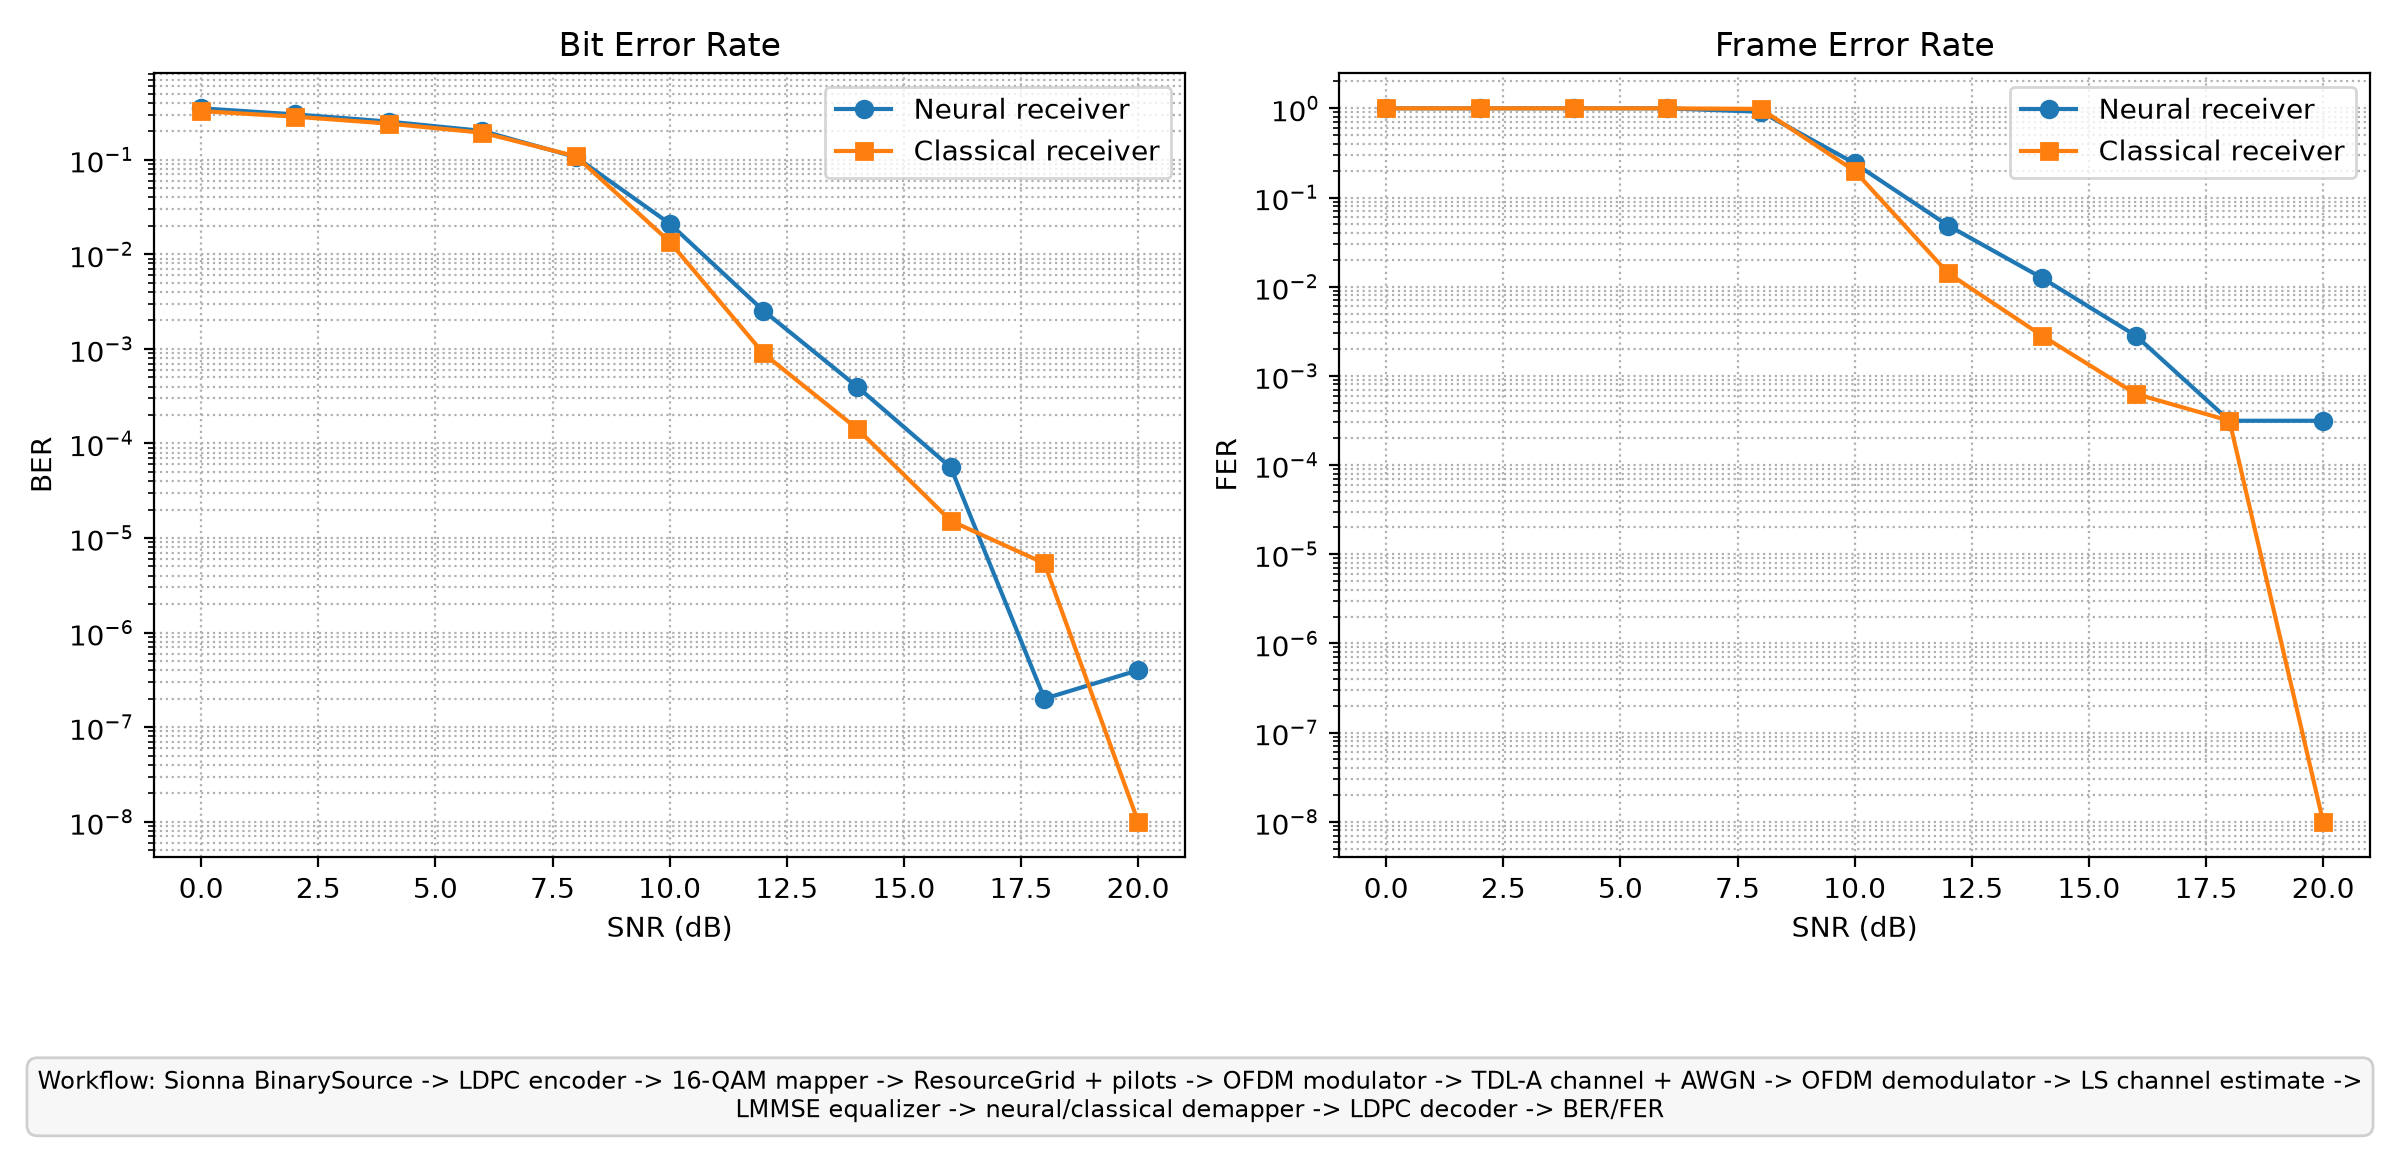
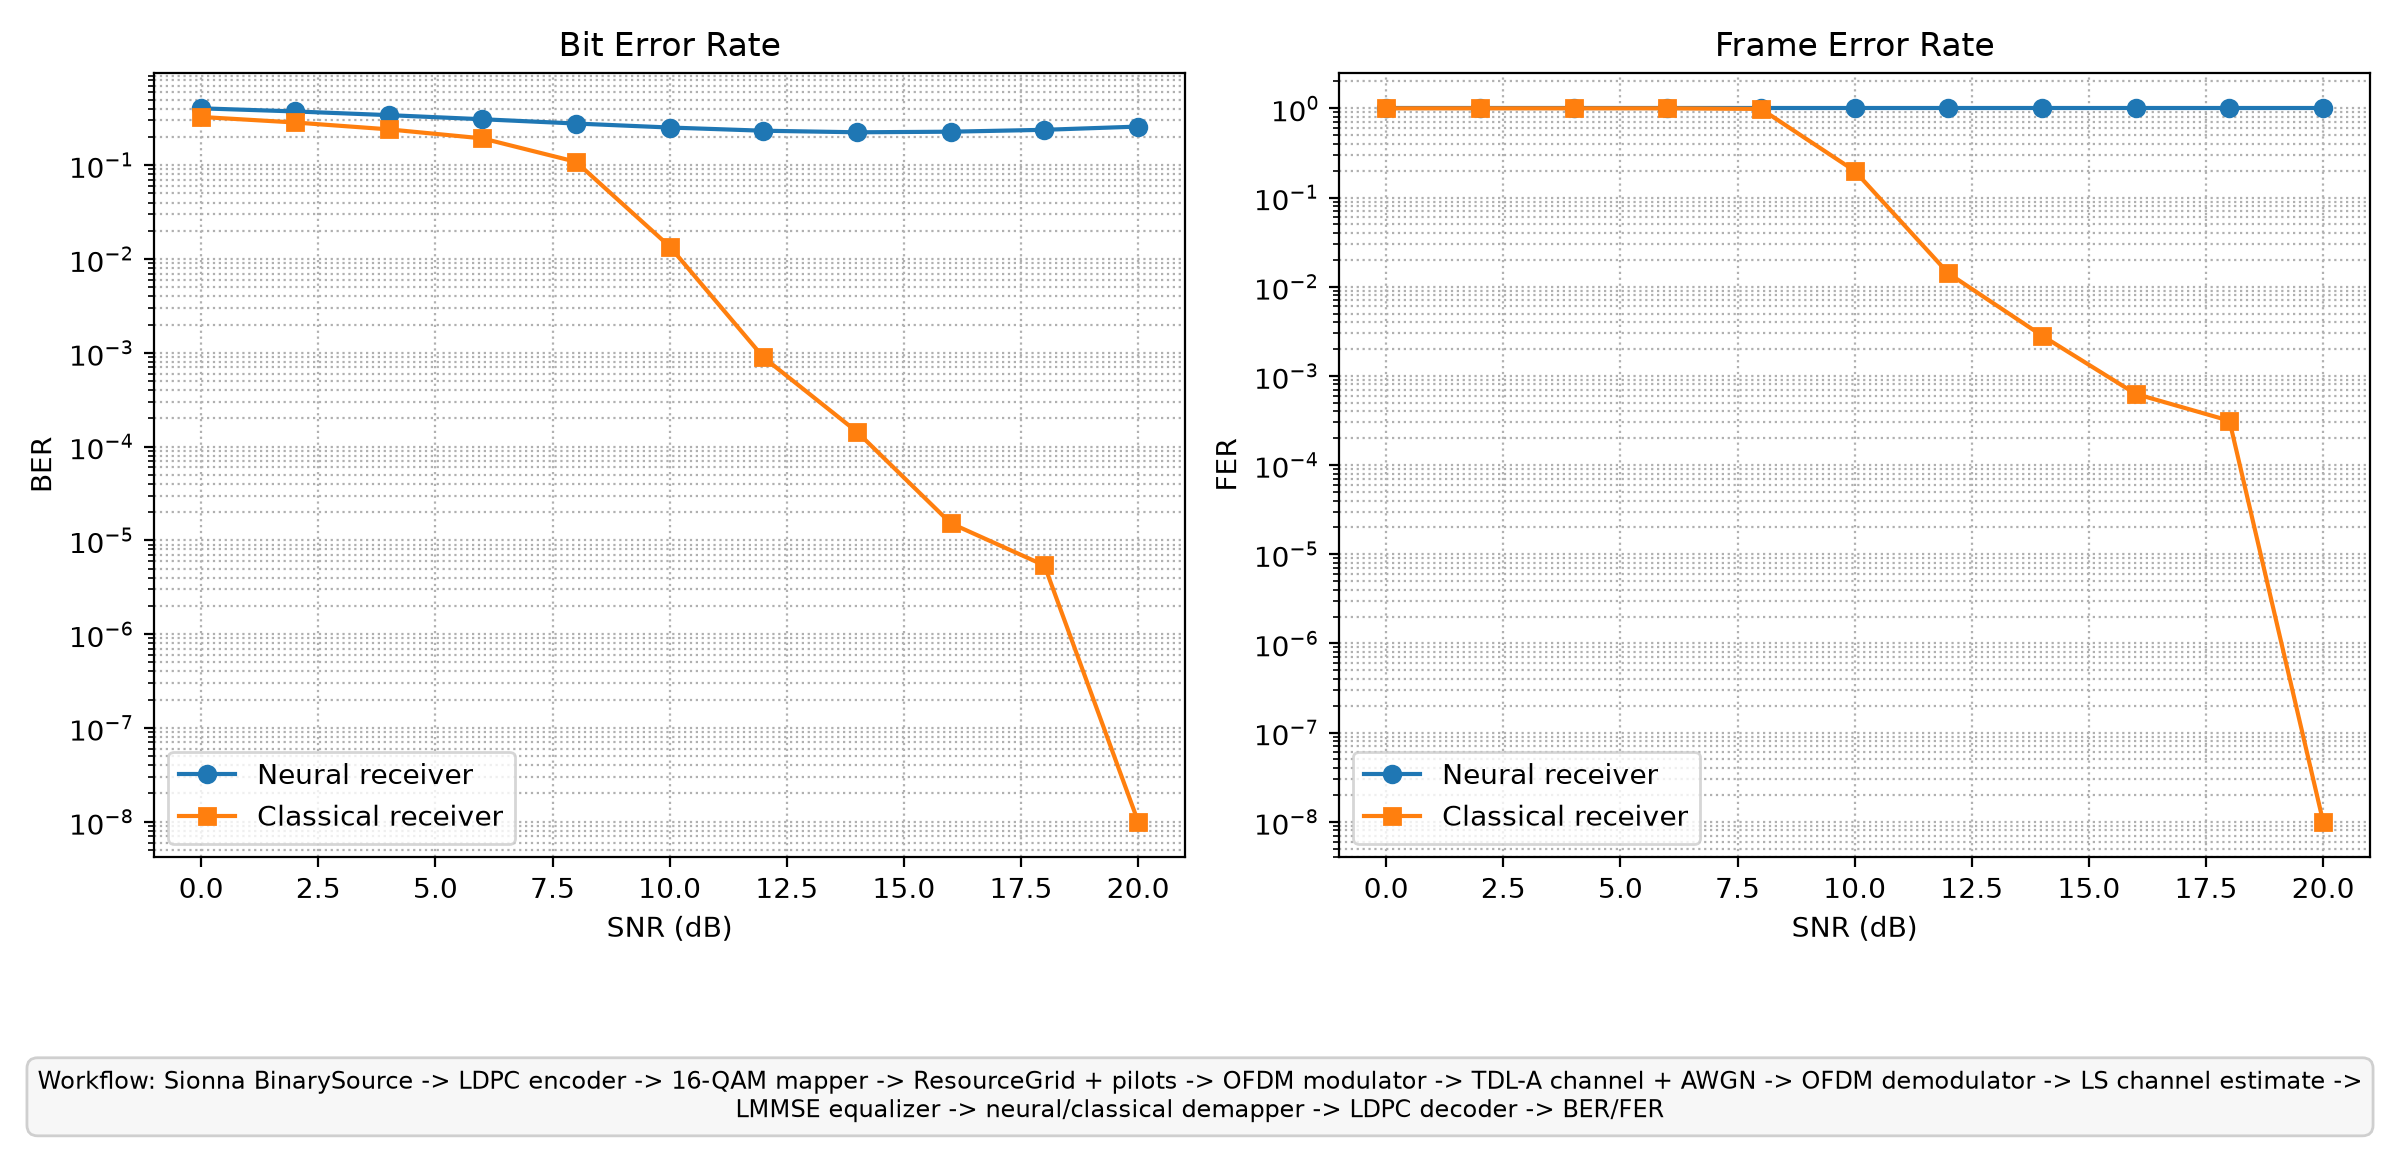
refactor: replace local NeuralDemapper with FullGridNeuralReceiver in NeuralReceiverTrainer

diff --git a/neural_receiver.py b/neural_receiver.py
@@ -1,30 +1,13 @@
 import torch
 import torch.nn as nn
 
-class NeuralDemapper(nn.Module):
-    def __init__(self):
-        super().__init__()
-
-        self.net = nn.Sequential(
-            nn.Linear(3, 64),
-            nn.ReLU(),
-            nn.Linear(64, 64),
-            nn.ReLU(),
-            nn.Linear(64, 4),
-        )
-
-    def forward(self, features):
-        return self.net(features)
-
 class NeuralReceiverTrainer:
     def __init__(
         self,
-        neural_demapper,
         system,
         bits_per_qam_symbol,
         device,
     ):
-        self.neural_demapper = neural_demapper
         self.system = system
         self.bits_per_qam_symbol = bits_per_qam_symbol
         self.device = device
@@ -46,11 +29,6 @@ class NeuralReceiverTrainer:
         self.num_coded_bits_per_frame = system["num_coded_bits_per_frame"]
         self.num_info_bits_per_frame = system["num_info_bits_per_frame"]
 
-        self.loss_function = torch.nn.BCEWithLogitsLoss()
-        self.optimizer = torch.optim.Adam(
-            self.neural_demapper.parameters(),
-            lr=1e-3,
-        )
         self.full_grid_receiver = FullGridNeuralReceiver(
             input_channels=5,
             bits_per_symbol=bits_per_qam_symbol,
@@ -127,64 +105,110 @@ class NeuralReceiverTrainer:
         )
         return info_bits, coded_bits, equalized_data_freq, no_eff
 
-
     def generate_training_batch(self, batch_frames, noise_power):
-
-        info_bits, coded_bits, equalized_data_freq, no_eff = self.run_receiver_front_end(batch_frames, noise_power)
-        
-        neural_features = make_neural_features(
-            equalized_data_freq,
-            no_eff,
+        info_bits, coded_bits, y_grid_sionna, noise_power_tensor = (
+            self.run_ofdm_link_until_received_grid(batch_frames, noise_power)
         )
 
-        features_flat = flatten_neural_features(neural_features)
+        pilot_mask = self.rg.pilot_pattern.mask.squeeze(0).squeeze(0)
 
-        labels_flat = flatten_coded_bits(coded_bits)
+        grid_features, data_mask = make_full_grid_features(
+            y_grid_sionna,
+            noise_power_tensor,
+            pilot_mask,
+        )
 
-        return features_flat, labels_flat
+        labels = coded_bits.float()
+
+        return grid_features, data_mask, labels
 
     def train_step(self, batch_frames, noise_power):
-        features_flat, labels_flat = self.generate_training_batch(
+        grid_features, data_mask, labels = self.generate_training_batch(
             batch_frames,
             noise_power,
         )
 
-        self.neural_demapper.train()
+        self.full_grid_receiver.train()
 
-        predicted_llr_flat = self.neural_demapper(features_flat)
-
-        loss = self.loss_function(
-            predicted_llr_flat,
-            labels_flat,
+        predicted_llr = self.full_grid_receiver(
+            grid_features,
+            data_mask,
         )
 
-        self.optimizer.zero_grad()
+        loss = self.full_grid_loss_function(
+            predicted_llr,
+            labels,
+        )
+
+        self.full_grid_optimizer.zero_grad()
         loss.backward()
-        self.optimizer.step()
+        self.full_grid_optimizer.step()
 
         with torch.no_grad():
-            predicted_bits = (predicted_llr_flat > 0).to(labels_flat.dtype)
+            predicted_bits = (predicted_llr > 0).to(labels.dtype)
 
             bit_accuracy = torch.mean(
-                (predicted_bits == labels_flat).to(torch.float32)
+                (predicted_bits == labels).to(torch.float32)
             )
 
         return loss.item(), bit_accuracy.item()
 
-    def evaluate_receiver_batch(self, batch_frames, noise_power):
-        info_bits, _, equalized_data_freq, no_eff = self.run_receiver_front_end(batch_frames, noise_power)
+    def train(
+        self,
+        num_training_steps,
+        batch_size,
+        training_snr_db,
+        print_every=20,
+    ):
+        snr_linear = 10 ** (training_snr_db / 10)
+        noise_power = 1 / snr_linear
 
-        neural_features = make_neural_features(
-            equalized_data_freq,
-            no_eff,
+        last_loss = None
+        last_accuracy = None
+
+        for training_step in range(num_training_steps):
+            loss, accuracy = self.train_step(
+                batch_size,
+                noise_power,
+            )
+
+            last_loss = loss
+            last_accuracy = accuracy
+
+            if training_step % print_every == 0:
+                print(
+                    "full-grid training step:",
+                    training_step,
+                    "loss:",
+                    loss,
+                    "accuracy:",
+                    accuracy,
+                )
+
+        return last_loss, last_accuracy
+
+    def evaluate_batch(self, batch_frames, noise_power):
+        info_bits, _, y_grid_sionna, noise_power_tensor = (
+            self.run_ofdm_link_until_received_grid(batch_frames, noise_power)
         )
 
-        features_flat = flatten_neural_features(neural_features)
+        pilot_mask = self.rg.pilot_pattern.mask.squeeze(0).squeeze(0)
 
-        self.neural_demapper.eval()
+        grid_features, data_mask = make_full_grid_features(
+            y_grid_sionna,
+            noise_power_tensor,
+            pilot_mask,
+        )
+
+        self.full_grid_receiver.eval()
 
         with torch.no_grad():
-            llr_flat = self.neural_demapper(features_flat).reshape(
+            llr = self.full_grid_receiver(
+                grid_features,
+                data_mask,
+            )
+
+            llr_flat = llr.reshape(
                 batch_frames,
                 self.num_coded_bits_per_frame,
             )
@@ -217,7 +241,7 @@ class NeuralReceiverTrainer:
                 total_frames - total_frames_done,
             )
 
-            bit_errors, frame_errors, info_bits = self.evaluate_receiver_batch(
+            bit_errors, frame_errors, info_bits = self.evaluate_batch(
                 batch_frames,
                 noise_power,
             )
@@ -232,39 +256,6 @@ class NeuralReceiverTrainer:
 
         return ber, fer
 
-    def train(
-        self,
-        num_training_steps,
-        batch_size,
-        training_snr_db,
-        print_every=20,
-    ):
-        snr_linear = 10 ** (training_snr_db / 10)
-        noise_power = 1 / snr_linear
-
-        last_loss = None
-        last_accuracy = None
-
-        for training_step in range(num_training_steps):
-            loss, accuracy = self.train_step(
-                batch_size,
-                noise_power,
-            )
-
-            last_loss = loss
-            last_accuracy = accuracy
-
-            if training_step % print_every == 0:
-                print(
-                    "training step:",
-                    training_step,
-                    "loss:",
-                    loss,
-                    "accuracy:",
-                    accuracy,
-                )
-
-        return last_loss, last_accuracy
 
     def evaluate_classical_batch(self, batch_frames, noise_power):
         info_bits, _, equalized_data_freq, no_eff = self.run_receiver_front_end(batch_frames, noise_power)
@@ -341,25 +332,6 @@ class FullGridNeuralReceiver(nn.Module):
         data_llr = grid_llr.permute(0, 2, 3, 1)[:, data_positions, :]
 
         return data_llr
-
-def make_neural_features(equalized_data_freq, no_eff):
-    no_eff = no_eff.reshape(equalized_data_freq.shape)
-    no_eff = torch.clamp(no_eff, min=1e-12)
-
-    return torch.stack(
-        [
-            torch.real(equalized_data_freq),
-            torch.imag(equalized_data_freq),
-            torch.log(no_eff),
-        ],
-        dim=-1,
-    )
-
-def flatten_neural_features(neural_features):
-    return neural_features.reshape(-1, neural_features.shape[-1])
-
-def flatten_coded_bits(coded_bits):
-    return coded_bits.float().reshape(-1, coded_bits.shape[-1])
 
 def make_full_grid_features(y_grid_sionna, noise_power_tensor, pilot_mask):
     y_grid = y_grid_sionna.squeeze(1).squeeze(1)

diff --git a/main_OFDM.py b/main_OFDM.py
@@ -18,7 +18,7 @@ from sionna.phy.ofdm import (
     ResourceGridMapper,
 )
 from chart_maker import plot_receiver_comparison
-from neural_receiver import NeuralDemapper, NeuralReceiverTrainer
+from neural_receiver import NeuralReceiverTrainer
 
 config.seed = 0
 
@@ -234,27 +234,12 @@ def main():
         device,
     )
 
-    source = system["source"]
-    mapper = system["mapper"]
-    awgn = system["awgn"]
-    rg = system["rg"]
-    rg_mapper = system["rg_mapper"]
-    ofdm_modulator = system["ofdm_modulator"]
-    ofdm_demodulator = system["ofdm_demodulator"]
-    ls_estimator = system["ls_estimator"]
-    lmmse_equalizer = system["lmmse_equalizer"]
-    sionna_time_channel = system["sionna_time_channel"]
-    ldpc_encoder = system["ldpc_encoder"]
-    ldpc_decoder = system["ldpc_decoder"]
     num_coded_bits_per_frame = system["num_coded_bits_per_frame"]
     num_info_bits_per_frame = system["num_info_bits_per_frame"]
     
     total_frames = math.ceil(target_coded_bits / num_coded_bits_per_frame)
 
-    neural_demapper = NeuralDemapper().to(device)
-
     trainer = NeuralReceiverTrainer(
-        neural_demapper=neural_demapper,
         system=system,
         bits_per_qam_symbol=bits_per_qam_symbol,
         device=device,
